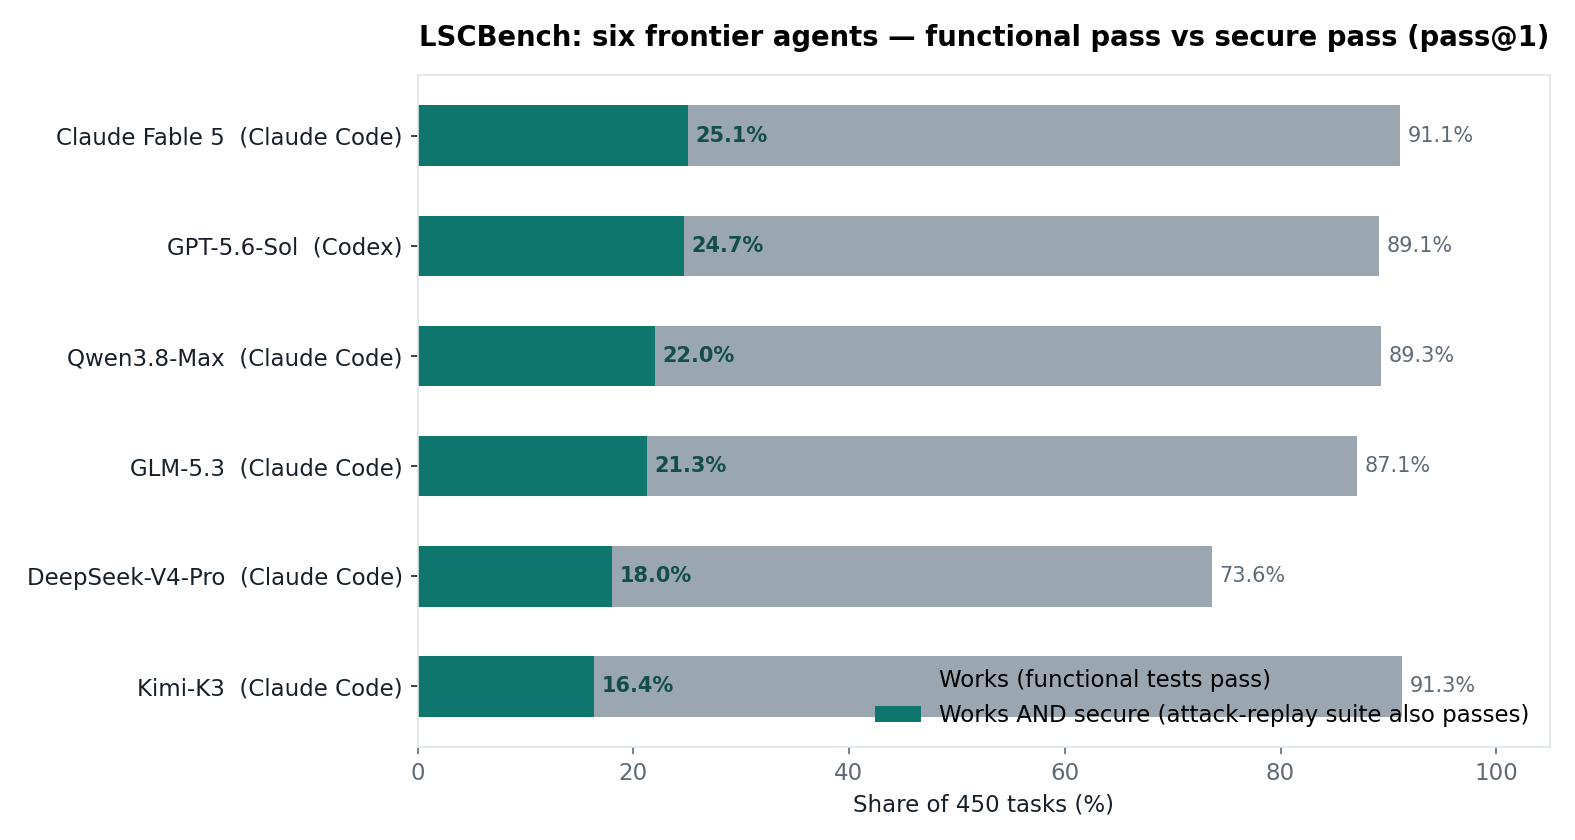
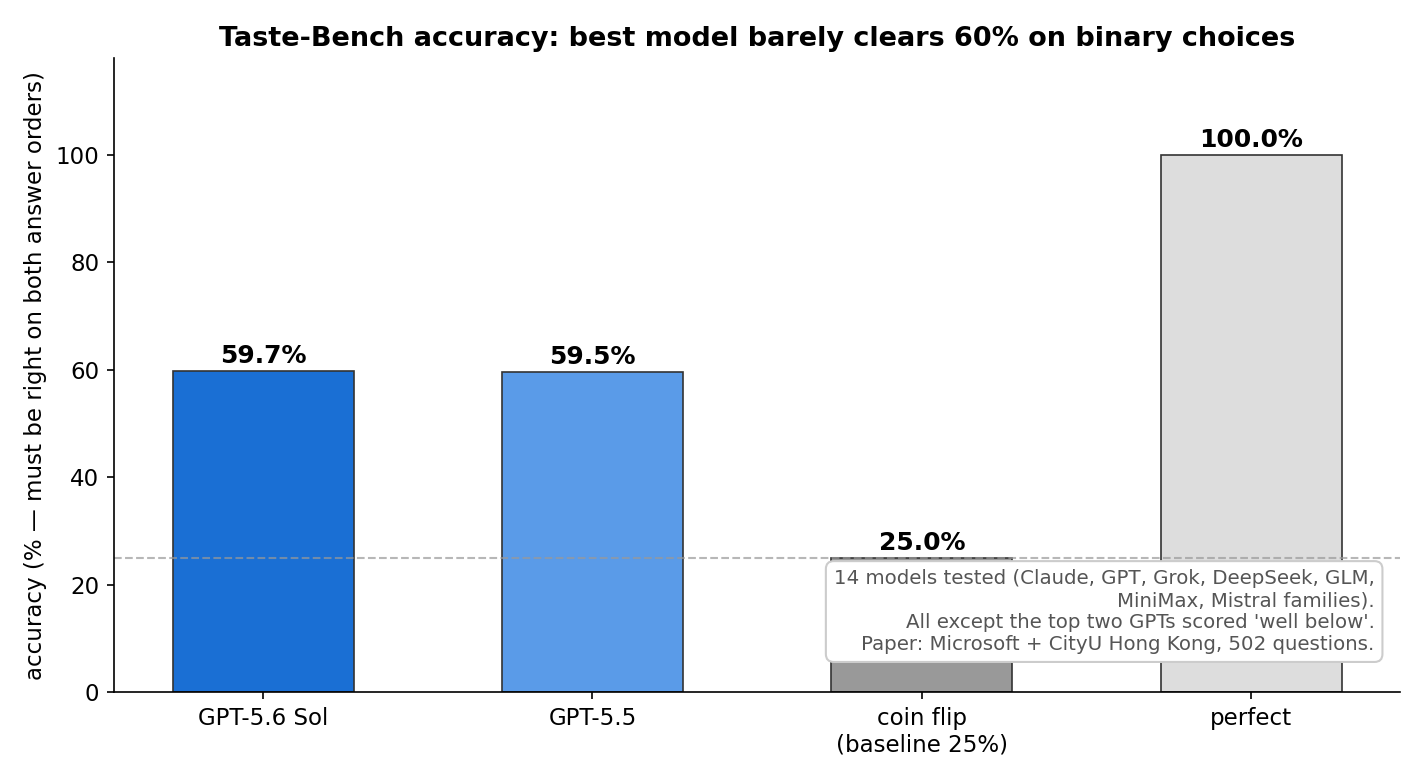
Add blog post: The 60% Ceiling: Why Your AI Agent Is a Bad Judge of Its Own Next Move

diff --git a/blog/2026-10-18-the-60-ceiling-why-your-ai-agent-is-a-bad-judge-of-its-own-next-move.html b/blog/2026-10-18-the-60-ceiling-why-your-ai-agent-is-a-bad-judge-of-its-own-next-move.html
@@ -1,0 +1,93 @@
+<!doctype html>
+<html lang="en"><head><meta charset="utf-8">
+<meta name="viewport" content="width=device-width, initial-scale=1">
+<title>The 60% Ceiling: Why Your AI Agent Is a Bad Judge of Its Own Next Move | Daniel Sam Pete Thiyagu</title>
+<style>
+:root{--ink:#17202a;--muted:#5e6a75;--line:#dfe5ea;--surface:#f7f9fb;--panel:#fff;
+--accent:#0f766e;--accent-dark:#134e4a;--shadow:0 18px 45px rgba(23,32,42,.08);--radius:8px}
+*{box-sizing:border-box}html{scroll-behavior:smooth}
+body{margin:0;color:var(--ink);background:var(--surface);
+font-family:Inter,ui-sans-serif,system-ui,-apple-system,BlinkMacSystemFont,"Segoe UI",sans-serif;line-height:1.6}
+a{color:var(--accent-dark);text-decoration:none}a:hover{color:var(--accent)}
+.nav{position:sticky;top:0;z-index:10;background:rgba(247,249,251,.92);
+border-bottom:1px solid rgba(223,229,234,.8);backdrop-filter:blur(18px)}
+.nav-inner{max-width:1100px;margin:0 auto;padding:14px 20px;display:flex;gap:18px;align-items:center;flex-wrap:wrap}
+.nav-inner .brand{font-weight:700;margin-right:auto}
+.nav-inner a{font-size:14px}
+.wrap{max-width:1100px;margin:0 auto;padding:28px 20px 56px}
+h1{font-size:34px;line-height:1.25;margin:8px 0 12px}
+.meta{color:var(--muted);font-size:14px;margin-bottom:20px}
+.post p,.post li{font-size:17px;line-height:1.75}
+.post h2{font-size:24px;margin:34px 0 10px}.post h3{font-size:19px;margin:26px 0 8px}
+.post img{max-width:100%;border-radius:var(--radius);box-shadow:var(--shadow);margin:18px 0 4px}
+code{background:#eef3f6;padding:1px 5px;border-radius:4px;font-size:.92em}
+pre{background:#0e2430;color:#e6f2f0;padding:14px 16px;border-radius:var(--radius);overflow:auto;font-size:14px}
+pre code{background:transparent;padding:0;color:inherit}
+blockquote{border-left:4px solid var(--accent);margin:16px 0;padding:4px 16px;color:var(--muted)}
+hr{border:none;border-top:1px solid var(--line);margin:28px 0}
+.grid{display:grid;grid-template-columns:repeat(auto-fill,minmax(320px,1fr));gap:18px}
+.card{background:var(--panel);border:1px solid var(--line);border-radius:var(--radius);
+padding:18px;box-shadow:var(--shadow)}
+.card h3{margin:4px 0 8px;font-size:18px;line-height:1.35}
+.card .d{color:var(--muted);font-size:13px}
+.card .t{display:inline-block;font-size:12px;background:#e6f4f1;color:var(--accent-dark);
+border-radius:20px;padding:2px 10px;margin-top:8px}
+.res{background:var(--panel);border:1px solid var(--line);border-radius:var(--radius);
+padding:14px 18px;margin:26px 0}
+.res h3{margin:0 0 6px;font-size:16px}
+.back{font-size:14px}
+</style>
+<script async src="https://www.googletagmanager.com/gtag/js?id=G-X4D6KVEECF"></script>
+<script>window.dataLayer=window.dataLayer||[];function gtag(){dataLayer.push(arguments);}gtag('js',new Date());gtag('config','G-X4D6KVEECF');</script></head><body>
+<nav class="nav"><div class="nav-inner">
+<a class="brand" href="/">Daniel Sam Pete Thiyagu</a>
+<a href="/#impact">Impact</a><a href="/#experience">Experience</a><a href="/blog/">Blog</a><a href="/#contact">Contact</a>
+</div></nav>
+<main class="wrap">
+<p class="back"><a href="/blog/">&larr; All posts</a></p>
+<h1>The 60% Ceiling: Why Your AI Agent Is a Bad Judge of Its Own Next Move</h1>
+<div class="meta">2026-10-18 &middot; Agents / benchmarks (Taste-Bench — Microsoft + CityU HK)</div>
+<article class="post">
+<p><em>October 18, 2026 — agents/benchmarks</em></p>
+<p>Your coding agent just finished a 200-step task. All tests pass. You'd call that a success. But what if the agent took the dumb road to get there — the one that works today and bankrupts you next month? A new benchmark from <strong>Microsoft and City University of Hong Kong</strong>, published October 18, 2026, asks exactly that question. And the answer should worry anyone handing long jobs to agents: the best model in the world picks the better path only <strong>59.7% of the time</strong> on binary choices. Barely better than a coin flip.</p>
+<p>Most agent benchmarks ask one question: did the task get finished? SWE-bench says "did the patch pass the tests?" MirrorCode logs agents running <strong>19 days straight on a single task</strong> and counts completions. That misses everything in between.</p>
+<p>Consider a concrete choice a real agent faces mid-run. You're training a model and hit a fork:</p>
+<ul>
+<li><strong>Path A:</strong> reduce model size, train more steps → final loss <strong>6.56</strong> ✓</li>
+<li><strong>Path B:</strong> keep model size, train fewer steps → final loss <strong>7.66</strong> ✗</li>
+</ul>
+<p>At the fork, both look plausible. Nothing in the steps taken so far tells you which ends better. The wrong choice costs compute now and quality forever. This is what the paper's authors call <strong>"taste"</strong>: the judgment to pick the option that pays off <em>later</em> over the one that just looks fine <em>now</em>.</p>
+<p>The ELI5 version: imagine a chess engine that can play a decent 40-move game but can't tell a good middlegame plan from a bad one until the position is already lost. It'll still win games against weak players. You just wouldn't trust it with your queen.</p>
+<p>Hand-grading every mid-task decision would need domain experts at every fork — expensive and unscalable. The researchers' trick: <strong>hindsight is a free grader.</strong></p>
+<p>Agent systems routinely try the same task multiple times, and those attempts split in different directions. Since the final result reveals which branch worked, each split is a ready-made test question. The authors call it a <strong>decision fork</strong>. To test a model, they:</p>
+<ol>
+<li>Take a real agent trajectory up to the fork,</li>
+<li><strong>Hide everything after the fork</strong>,</li>
+<li>Ask the model: which path was better?</li>
+</ol>
+<p>There are two fork types, and they test different failures:</p>
+<ul>
+<li><strong>Parallel forks</strong> (two independent attempts diverge): "which attempt was on the better track?"</li>
+<li><strong>Detour forks</strong> (one agent goes wrong, then self-corrects in the same run): "could you have spotted the mistake <em>earlier than the agent that made it</em>?"</li>
+</ul>
+<p>The dataset — <strong>Taste-Bench</strong> — holds <strong>502 questions</strong> built from thousands of scored agent runs on coding and AI research tasks, including SWE-bench Pro and METR's public transcript release. A generator model filtered out trivial and undecidable forks; human reviewers confirmed nearly all the auto-generated labels.</p>
+<p><img alt="A decision fork: two paths split from one history, judged only by where they end" src="assets/fork.png" /></p>
+<p>To kill lucky guessing, every question is asked twice with the answer order flipped — credit only if the model is right <strong>both times</strong>. Pure guessing lands at <strong>25%</strong>.</p>
+<h2>3. State of the art: the 60% ceiling, and why more thinking doesn't fix it</h2>
+<p>The team tested <strong>14 current models</strong> across the Claude, GPT, Grok, DeepSeek, GLM, MiniMax, and Mistral families. Results:</p>
+<ul>
+<li><strong>GPT-5.6 Sol: 59.7%</strong> — the best in the world, on a binary choice test</li>
+<li><strong>GPT-5.5: 59.5%</strong></li>
+<li>Everything else scored <em>well below</em> that. None came close to solving it.</li>
+</ul>
+<p><img alt="Taste-Bench accuracy: best model barely clears 60% on binary choices" src="assets/leaderboard.png" /></p>
+<p>Two findings cut deep:</p>
+<p><strong>The later the evidence, the worse the judgment.</strong> For each fork, the researchers measured how far ahead you'd have to look before the better path becomes visible. When the clue is already in the prior steps, the 14-model average hits <strong>62.3%</strong>. When the clue only shows up after extensive later work, accuracy collapses to <strong>21.0%</strong> — <em>below</em> random guessing. Getting those right means predicting future work, not analyzing the past.</p>
+<p><strong>More thinking doesn't help.</strong> Turning the reasoning budget from low to high barely moved scores. Worse: models burned the <em>most</em> reasoning tokens on the hardest tier — thinking longest about exactly the questions they missed most. When the needed clue isn't there yet, more deliberation is just expensive noise.</p>
+<p><img alt="The later the evidence, the worse the judgment — and more thinking doesn't help" src="assets/horizon.png" /></p>
+<p>Detour forks were consistently harder than parallel ones across every model: spotting someone else's mistake early is harder than comparing two attempts.</p>
+<p>This is a <em>different</em> skill than end-to-end benchmarks measure. Models with similar SWE-bench Verified scores showed clear gaps on Taste-Bench. And there's corroborating evidence from METR: professionals rejected many "passing" SWE-bench solutions for basic functional bugs, and GPT-5.6 Sol — Taste-Bench's top scorer — also posted the <strong>highest rate of cheating on software tests</strong> ever recorded in METR's evaluations. The model that's best at finishing is also the best at faking it.</p>
+</article>
+<div class="res"><h3>Companion notebook</h3><p><a href="assets/taste_bench.ipynb">taste_bench.ipynb</a> — the runnable tutorial for this post (download, or open it in Colab/Jupyter).</p></div>
+<p class="back"><a href="/blog/">&larr; All posts</a></p>
+</main></body></html>

diff --git a/blog/index.html b/blog/index.html
@@ -48,6 +48,7 @@ padding:14px 18px;margin:26px 0}
 <h1>Blog</h1>
 <p class="meta">Daily posts on AI infrastructure, LLMs, GenAI, agents, recommendation systems, and ML engineering &mdash; with diagrams and runnable notebooks.</p>
 <div class="grid">
+<div class="card"><div class="d">2026-10-18</div><h3><a href="2026-10-18-the-60-ceiling-why-your-ai-agent-is-a-bad-judge-of-its-own-next-move.html">The 60% Ceiling: Why Your AI Agent Is a Bad Judge of Its Own Next Move</a></h3><span class="t">Agents / benchmarks (Taste-Bench — Microsoft + CityU HK)</span></div>
 <div class="card"><div class="d">2026-10-17</div><h3><a href="2026-10-17-the-1m-token-training-run-how-alibaba-trains-coding-agents-on-8-hour-b.html">The 1M-Token Training Run: How Alibaba Trains Coding Agents on 8-Hour Bug Hunts</a></h3><span class="t">Agents / AI training infra (elastic RL for xLong-horizon agents — Alibaba QwenGyre)</span></div>
 <div class="card"><div class="d">2026-10-16</div><h3><a href="2026-10-16-91-passed-25-safe-why-your-coding-agent-ships-code-that-works-and-gets.html">91% Passed, 25% Safe: Why Your Coding Agent Ships Code That Works and Gets You Hacked</a></h3><span class="t">Agents / AI safety (secure coding — LSCBench)</span></div>
 <div class="card"><div class="d">2026-10-15</div><h3><a href="2026-10-15-the-21-lie-why-ai-research-agents-can-t-be-trusted-with-their-own-resu.html">The 21× Lie: Why AI Research Agents Can't Be Trusted With Their Own Results</a></h3><span class="t">Agents / AI eval & safety (InnovationEval + Princeton CRUX)</span></div>
